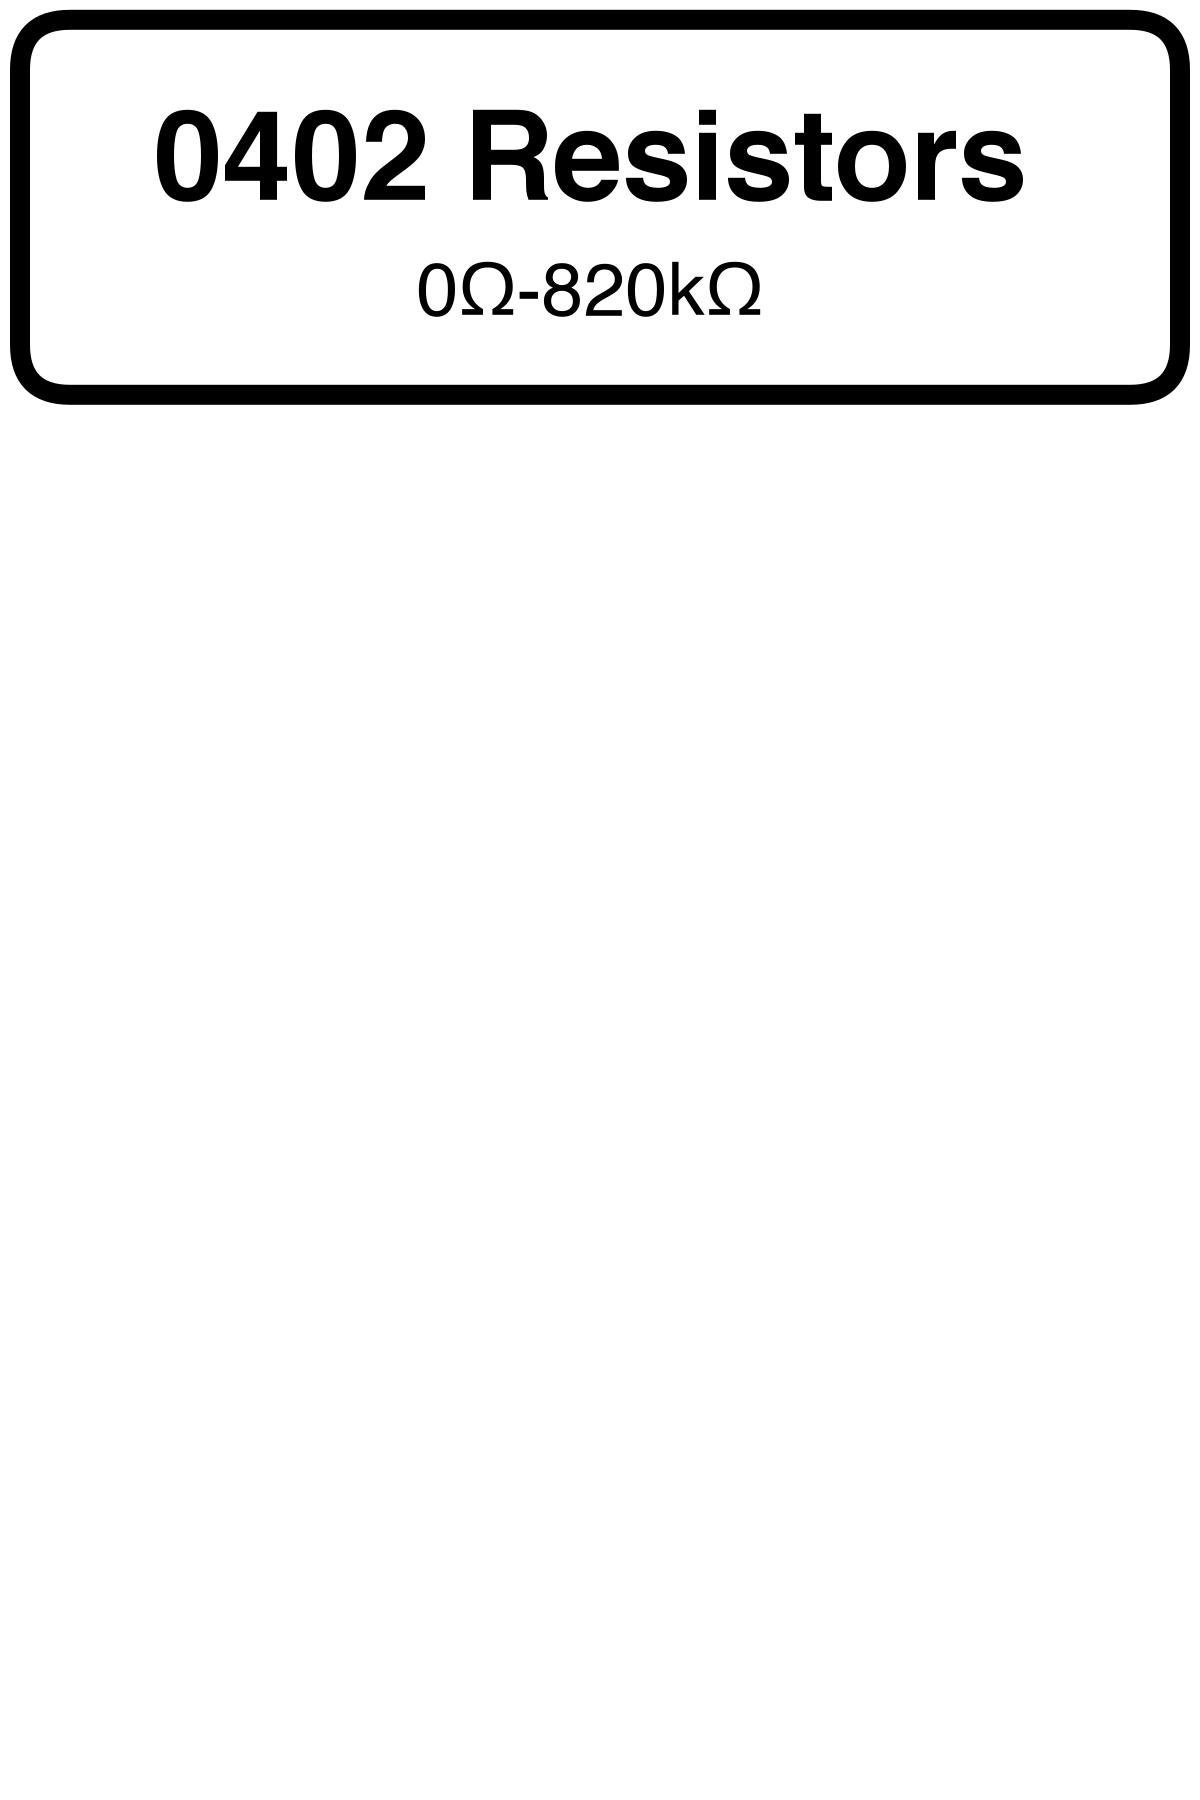
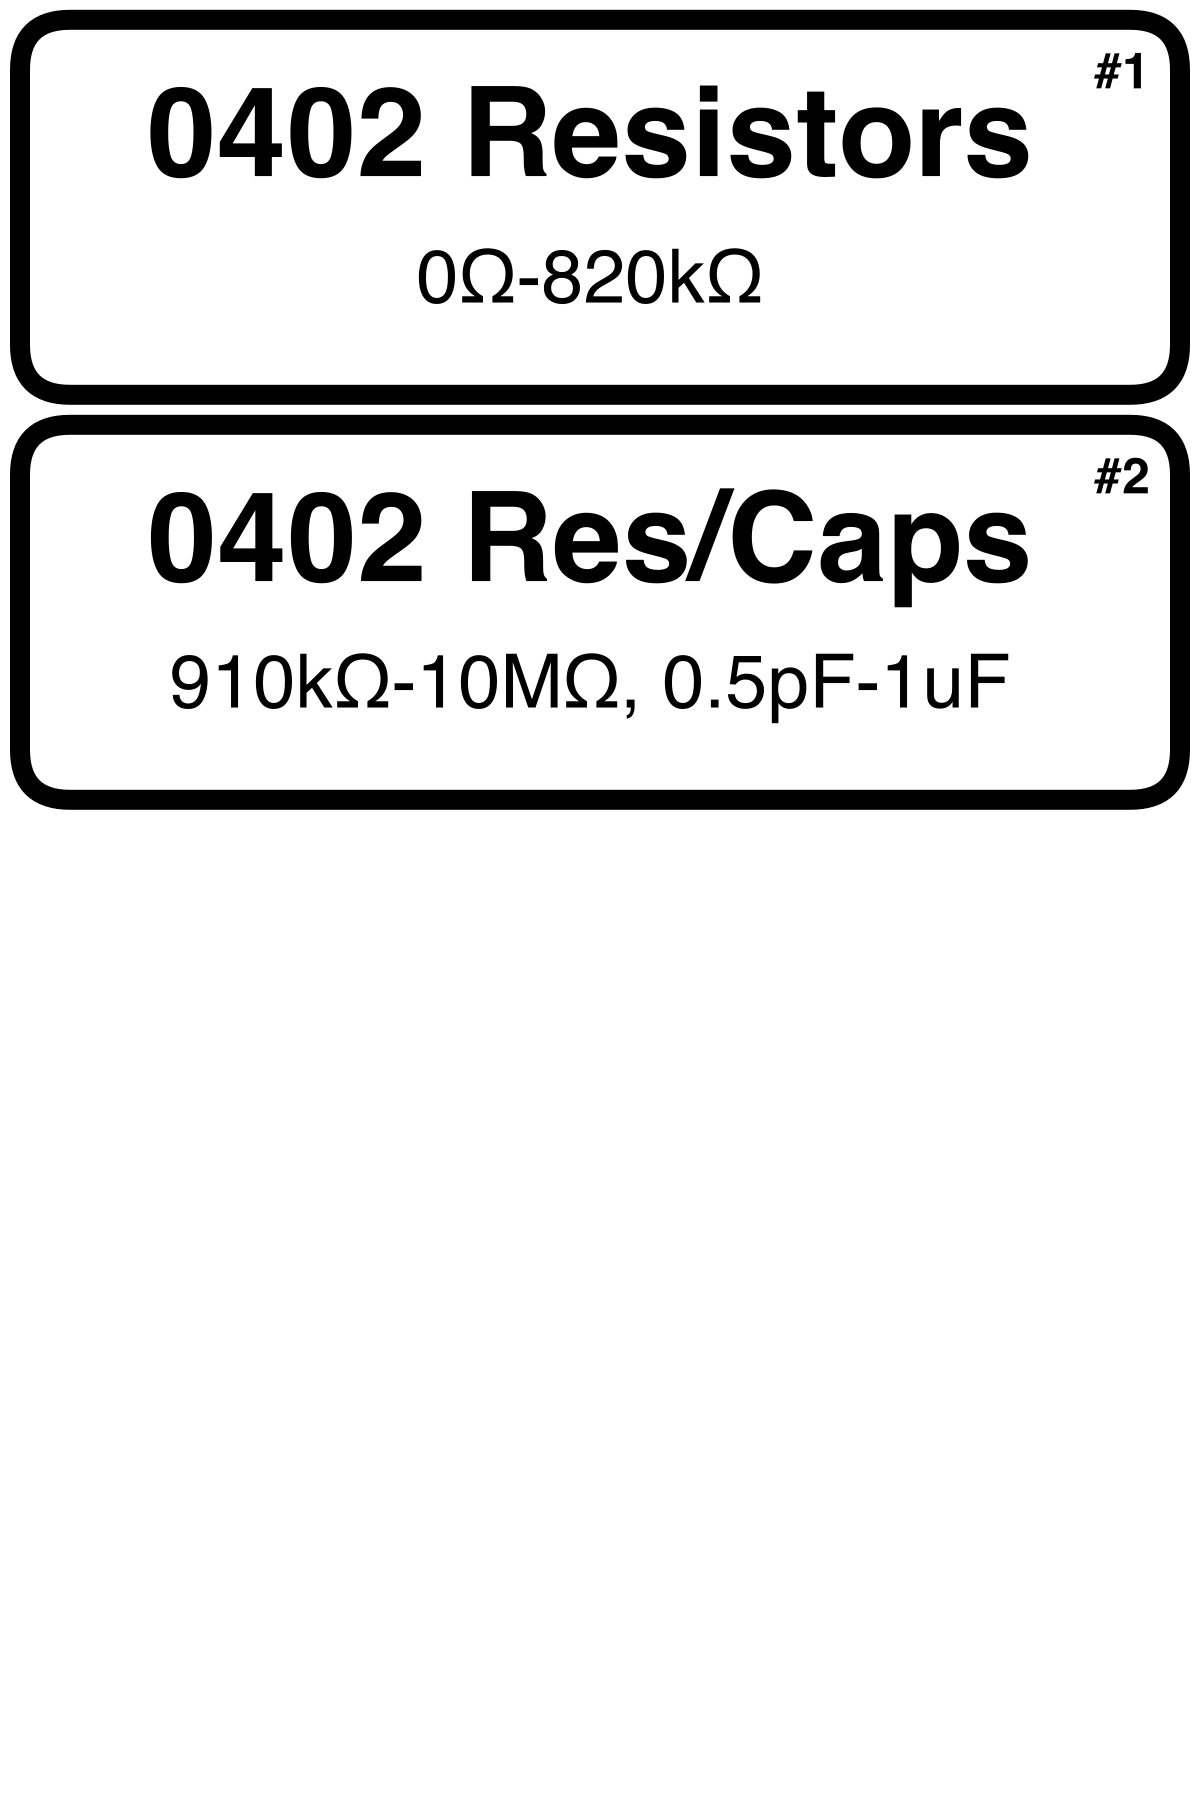
box num printed

Changed region(s): [[0.0, 0.2178, 1.0, 0.4667], [0.1233, 0.0311, 0.8633, 0.1867], [0.8942, 0.0311, 0.9558, 0.0622]]

diff --git a/Software/labelGeneratorV1.js b/Software/labelGeneratorV1.js
@@ -75,7 +75,7 @@ const exportImages = dir => { //Will export images from store
 
 		let boxPrintInfo = [];
 		for (let i=0; i<store.boxes.length; i++) { //Generate box labels
-			boxPrintInfo.push([store.boxes[i].title, store.boxes[i].description]);
+			boxPrintInfo.push([store.boxes[i].title, store.boxes[i].description, (i+1)]);
 		}
 
 		let boxesPerSheet = Math.floor(canvasHeightPx/(heightBoxLabel+inToPx(0.1)));
@@ -94,7 +94,8 @@ const exportImages = dir => { //Will export images from store
 				canvasRoundRect(ctx, 20, y, canvasWidthPx-40, heightBoxLabel, 50, false, true);
 				
 				let title = boxPrintInfo[boxIdx][0].substring(0, 16).trim();
-				let desc = boxPrintInfo[boxIdx][1].substring(0, 50).trim();				
+				let desc = boxPrintInfo[boxIdx][1].substring(0, 50).trim();	
+				let bn = ("#"+boxPrintInfo[boxIdx][2]).trim();
 
 				ctx.font = "bold 125px Helvetica";
 				const titleWidth = ctx.measureText(title).width;
@@ -103,6 +104,10 @@ const exportImages = dir => { //Will export images from store
 				ctx.font = "75px Helvetica";
 				const descWidth = ctx.measureText(desc).width;
 				ctx.fillText(desc, (canvasWidthPx-20-descWidth)/2, y+inToPx(0.75));
+
+				ctx.font = "bold 50px Helvetica";
+				const bnWidth = ctx.measureText(bn).width;
+				ctx.fillText(bn, canvasWidthPx-50-bnWidth, y+inToPx(0.1));
 
 				y+=heightBoxLabel+inToPx(0.1);
 				boxIdx++;
